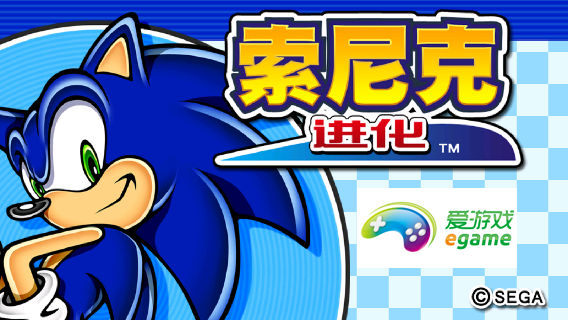
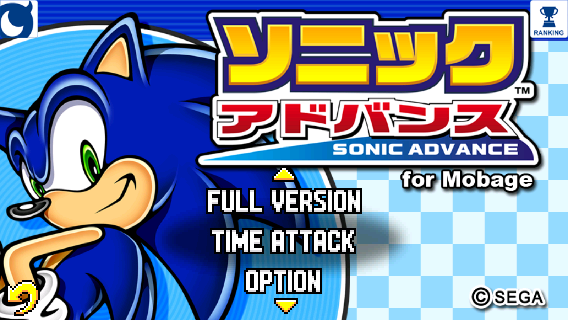
Add files via upload

diff --git a/sonicadvance/museum/official.html b/sonicadvance/museum/official.html
@@ -344,11 +344,11 @@
           The graphics are upscaled from their original resolution, but the Android port is known for having a poor frame rate (roughly 12-15fps).
         </p>
         <p>
-          There are 3 known versions of this Android port: the 2011 version, the Chinese version (distributed by eGame), and the 2013 version (also known as Sonic Advance Lite).
+          There are 4 known versions of this Android port: the 2011 full version, the Mobage version, the Chinese version (distributed by eGame), and the 2013 version (also known as Sonic Advance Lite).
         </p>
       </article>
       <article>
-        <h3 class="title">2011 version</h3>
+        <h3 class="title">2011 full version</h3>
         <p>
           The first version was originally published on November 25th 2011 as a free Android application from the Android Marketplace (now known as Google Play).
           It later became available through the Puyo Puyo! Sega subscription service in December 2011.
@@ -358,19 +358,46 @@
         </p>
       </article>
       <article>
-        <h3 class="title">Chinese version (eGame)</h3>
+        <h3 class="title">Mobage version</h3>
+        <img src="img/Mobage_Logo.png" class="center">
+        <p>
+          The Android port of Sonic Advance was also released on Mobage, a Japanese social network and app store created by DeNA.
+          Alongside DeNA's owned games, there were also games from other companies.
+        </p>
         <img src="img/history12.png" class="center">
         <p>
-          The Chinese version was released by a Chinese mobile service named eGame.
-          The release date of this version is unkown, but it is speculated to be released in 2011 or 2012, judging at some files in the game assets.
+          The Mobage version of Sonic Advance is the first free trial where you can only play the first stage as Sonic in TIME ATTACK mode.
+          It is also the first version of the game that fixes the sleep mode soft-lock and features a 5-option main menu with UP and DOWN arrows to toggle between the different options.
         </p>
         <p>
-          This version is actually the first version which features high-quality text (which is useful for Chinese text), and the soft-lock bug from the 2011 version has been fixed.
-          Additionally, unlike the other versions, this one features a different main menu, with UP and DOWN arrows to toggle between the different options.
+          This version is only a free trial.
+          To access the full game, you had to go to the <strong>Puyo Puyo! Sega</strong> subscription service and pay the subscription fee.
+        </p>
+        <img src="img/history13.png" class="center" style="width: 568px;">
+        <p>
+          Unique to this version is a BEST TIME counter at the top-right corner of the screen when playing the stage.
+          This counter registers the best time record of the stage.
+        </p>
+        <img src="img/history14.png" class="center" style="width: 568px;">
+        <p>
+          Also unique to this version, the best time record can be uploaded to a leaderboard.
+          This special menu can be accessed by either clearing the stage or via a special button in the Record menu.
+        </p>
+      </article>
+      <article>
+        <h3 class="title">Chinese version (eGame)</h3>
+        <img src="img/history15.png" class="center">
+        <p>
+          The Chinese version was released by a Chinese mobile service named eGame.
+          The release date of this version is unknown, but it is speculated to be released in 2011 or 2012, judging at some files in the game assets.
+        </p>
+        <p>
+          This version is actually the first version which features high-quality text (which is useful for Chinese text).
+          Additionally, like the Mobage version, this one features a 5-option main menu.
         </p>
         <p>
           This version initially requires payment to unlock subsequent content after completing the first stage of the game as Sonic only in TIME ATTACK mode.
-          However, the version archived on the Internet has been hacked to unlock the full-game after completing the first stage.
+          However, the version archived on the Internet has been hacked to unlock the full game after completing the first stage.
         </p>
       </article>
       <article>
@@ -382,14 +409,15 @@
         <p>
           While opening the application, you are granted with the <strong>All-you-can-play! SEGA+</strong> login menu, but you were able to ignore this menu to proceed the game.
         </p>
+        <img src="img/history16.png" class="center">
         <p>
-          While this version has the same main menu layout as the 2011 version, it features 2 additional buttons.
+          While this version has the same main menu layout as the 2011 full version, it features 2 additional buttons.
           The login button brings you back to the <strong>All-you-can-play! SEGA+</strong> login menu, whereas the more games button leads you to an external site where you were supposed to find more games.
         </p>
         <img src="../../gallery/img/lite_ending_sonicadvance.png" class="center" style="width: 568px;">
         <p>
           Like the Chinese version, this version initially requires payment to unlock subsequent content after completing the first stage of the game as Sonic only in TIME ATTACK mode.
-          However, it is accompanied with a nice-looking screen where you can either login to pay for the full-version, or going back to the main menu.
+          However, it is accompanied with a nice-looking screen where you can either login to pay for the full version, or going back to the main menu.
         </p>
       </article>
       <article>

diff --git a/sonicadvance/museum/androidmods.html b/sonicadvance/museum/androidmods.html
@@ -59,7 +59,7 @@
           The Android port of Sonic Advance wasn't popular and wasn't well documented, due to its only-release in Japan.
           While some Sonic fans in community were aware of its existence, and some people in the community even decompiled the game between 2014 and 2016, most of them weren't interested on working on this port.
         <p>
-          The biggest complain that the Android port has is the poor performance (which is actually due to the frame rate intentionally set to 12.5fps, presumably to ensure compatibility with Android phones at the time).
+          The biggest complain that the Android port has is the poor performance (which is actually due to the frame rate intentionally set to 15fps, presumably to ensure compatibility with Android phones at the time).
         </p>
       </article>
       <article>
